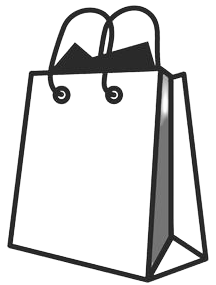
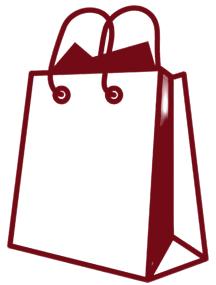
fixed colours and alignment of some elements

Changed region(s): [[0.0278, 0.0, 0.9722, 1.0]]

diff --git a/js/scene.js b/js/scene.js
@@ -441,23 +441,25 @@ function handleEvents() {
       cameraControls.mouseButtons.left = CameraControls.ACTION.ROTATE;
     }
 
-    // if (keyState.arrowUp) {
-    //   cameraControls.zoom(0.1, false);
-    // } else if (keyState.arrowDown) {
-    //   cameraControls.zoom(-0.1, false);
-    // } else if (keyState.arrowLeft) {
+    if (keyState.arrowUp) {
+      cameraControls.zoom(0.1, false);
+    } else if (keyState.arrowDown) {
+      cameraControls.zoom(-0.1, false);
+    }
+    // else if (keyState.arrowLeft) {
     //   cameraControls.truck(0.1, 0, false);
     // } else if (keyState.arrowRight) {
     //   cameraControls.truck(-0.1, 0, false);
-    // } else if (keyState.keyW) {
-    //   cameraControls.rotate(0, 1.5 * THREE.MathUtils.DEG2RAD, true);
-    // } else if (keyState.keyA) {
-    //   cameraControls.rotate(1.5 * THREE.MathUtils.DEG2RAD, 0, true);
-    // } else if (keyState.keyS) {
-    //   cameraControls.rotate(0, -1.5 * THREE.MathUtils.DEG2RAD, true);
-    // } else if (keyState.keyD) {
-    //   cameraControls.rotate(-1.5 * THREE.MathUtils.DEG2RAD, 0, true);
     // }
+    else if (keyState.keyW) {
+      cameraControls.rotate(0, 1.5 * THREE.MathUtils.DEG2RAD, true);
+    } else if (keyState.keyA) {
+      cameraControls.rotate(1.5 * THREE.MathUtils.DEG2RAD, 0, true);
+    } else if (keyState.keyS) {
+      cameraControls.rotate(0, -1.5 * THREE.MathUtils.DEG2RAD, true);
+    } else if (keyState.keyD) {
+      cameraControls.rotate(-1.5 * THREE.MathUtils.DEG2RAD, 0, true);
+    }
   });
 
   document.addEventListener("keyup", (event) => {
@@ -482,23 +484,25 @@ function handleEvents() {
       cameraControls.mouseButtons.left = CameraControls.ACTION.ROTATE;
     }
 
-    // if (keyState.arrowUp) {
-    //   cameraControls.zoom(0.1, false);
-    // } else if (keyState.arrowDown) {
-    //   cameraControls.zoom(-0.1, false);
-    // } else if (keyState.arrowLeft) {
+    if (keyState.arrowUp) {
+      cameraControls.zoom(0.1, false);
+    } else if (keyState.arrowDown) {
+      cameraControls.zoom(-0.1, false);
+    }
+    // else if (keyState.arrowLeft) {
     //   cameraControls.truck(0.1, 0, false);
     // } else if (keyState.arrowRight) {
     //   cameraControls.truck(-0.1, 0, false);
-    // } else if (keyState.keyW) {
-    //   cameraControls.rotate(0, 1.5 * THREE.MathUtils.DEG2RAD, true);
-    // } else if (keyState.keyA) {
-    //   cameraControls.rotate(1.5 * THREE.MathUtils.DEG2RAD, 0, true);
-    // } else if (keyState.keyS) {
-    //   cameraControls.rotate(0, -1.5 * THREE.MathUtils.DEG2RAD, true);
-    // } else if (keyState.keyD) {
-    //   cameraControls.rotate(-1.5 * THREE.MathUtils.DEG2RAD, 0, true);
     // }
+    else if (keyState.keyW) {
+      cameraControls.rotate(0, 1.5 * THREE.MathUtils.DEG2RAD, true);
+    } else if (keyState.keyA) {
+      cameraControls.rotate(1.5 * THREE.MathUtils.DEG2RAD, 0, true);
+    } else if (keyState.keyS) {
+      cameraControls.rotate(0, -1.5 * THREE.MathUtils.DEG2RAD, true);
+    } else if (keyState.keyD) {
+      cameraControls.rotate(-1.5 * THREE.MathUtils.DEG2RAD, 0, true);
+    }
   });
 
   let lastTapTime = performance.now();

diff --git a/css/style.css b/css/style.css
@@ -23,6 +23,9 @@ body {
   overflow: auto;
   font-family: "Lato", sans-serif;
   margin: 3px;
+  letter-spacing: 0.25px;
+  word-spacing: 2.5px;
+  line-height: 1.5rem;
 }
 
 button {
@@ -40,7 +43,7 @@ button {
 
   background-color: #ffe161 !important;
   border: 1px solid#ffe161 !important;
-  color: #614f00 !important;
+  color: #730b16 !important;
   box-shadow: 0px 4px 4px rgba(0, 0, 0, 0.25) !important;
 }
 
@@ -126,7 +129,7 @@ button {
 }
 
 .pricelabel {
-  color: rgb(255, 98, 0);
+  color: #c21526;
 }
 
 .aricon {
@@ -240,7 +243,7 @@ button {
   margin: 0 auto;
   padding: 0;
   /* border: 3px solid #ffe161; */
-  /* border-radius: 5px; */
+  border-radius: 5px;
 }
 
 #error {
@@ -385,10 +388,11 @@ button {
   align-items: center;
   justify-content: center;
   z-index: 30;
-  padding: 10px;
+  padding: 25px;
   gap: 20px;
-  background-color: #614f00;
+  background-color: #730b16;
   color: #ffe161;
+  font-weight: 500;
   border: 2px solid #ffe161;
   border-radius: 5px;
   display: none;
@@ -405,10 +409,10 @@ button {
   display: flex;
   flex-direction: column;
   align-items: center;
-  justify-content: flex-start;
-  border: 1px solid #ffe161;
+  justify-content: center;
+  border: 2px solid #ffe161;
   border-radius: 5px;
-  padding: 10px;
+  padding: 20px;
   width: 100%;
   height: 100%;
 }
@@ -420,7 +424,8 @@ button {
 
 .steptext {
   font-size: 18px;
-  padding: 10px;
+  padding: 15px;
+  height: 10vh;
 }
 
 #showhandscreen {
@@ -514,7 +519,7 @@ button {
 
   .selectarea {
     padding: 10px;
-    gap: 5px;
+    gap: 0px;
   }
 
   .jewelinfo {
@@ -553,13 +558,13 @@ button {
 
   .viewer-container {
     width: 99vw;
-    height: 97dvh;
+    height: 99dvh;
     max-width: 99vw;
     overflow: hidden;
   }
 
   #usermanual {
-    gap: 10px;
+    gap: 15px;
     padding: 5px;
   }
 
@@ -570,6 +575,7 @@ button {
 
   .step {
     flex-direction: row;
+    padding: 10px;
   }
 
   .stepimg {
@@ -577,8 +583,11 @@ button {
     height: auto;
   }
 
-  #showhandscreen {
-    padding: 15px 0;
+  .steptext {
+    width: 60%;
+    height: auto;
+    padding: 0px;
+    margin-left: 15px;
   }
 
   #showhandscreen h2 {
@@ -593,14 +602,19 @@ button {
 
   .switchbtn {
     margin: 20px;
-    margin-left: auto;
     border-radius: 50%;
     width: fit-content;
+    width: 60px;
+    height: 60px;
+    padding: 12px;
+    position: absolute;
+    bottom: 30px;
+    right: 0;
   }
 
   .switchimg {
-    width: 30px;
-    height: 35px;
+    width: 100%;
+    height: 100%;
   }
 
   .desktop-viewar {

diff --git a/index.html b/index.html
@@ -25,7 +25,7 @@
       </div>
       <div class="j4container" id="j4container">
         <!-- <h2 class="choosetext">Choose a jewellery to try it on</h2> -->
-        <h3 class="type-label">Bangles ( 2 items )</h3>
+        <h3 class="type-label">Bangles (2 items)</h3>
         <div class="jrow">
           <div class="jewel-container">
             <img src="assets/flowerbangle.jpeg" class="jewelimg" />
@@ -47,7 +47,7 @@
                   <img src="assets/aricon.png" class="aricon" />
                 </button>
                 <button class="primarybtn addcartbtn" type="button">
-                  <img src="assets/addbag.png" class="addbag" />
+                  <img src="assets/addbag2.png" class="addbag" />
                 </button>
               </div>
             </div>
@@ -72,7 +72,7 @@
                   <img src="assets/aricon.png" class="aricon" />
                 </button>
                 <button class="primarybtn addcartbtn" type="button">
-                  <img src="assets/addbag.png" class="addbag" />
+                  <img src="assets/addbag2.png" class="addbag" />
                 </button>
               </div>
             </div>
@@ -90,7 +90,7 @@
             </div>
           </div> -->
         </div>
-        <h3 class="type-label">Rings ( 2 items )</h3>
+        <h3 class="type-label">Rings (2 items)</h3>
         <div class="jrow">
           <!-- <div class="jewel-container">
             <img src="assets/flowerring.jpeg" class="jewelimg" />
@@ -124,7 +124,7 @@
                   <img src="assets/aricon.png" class="aricon" />
                 </button>
                 <button class="primarybtn addcartbtn" type="button">
-                  <img src="assets/addbag.png" class="addbag" />
+                  <img src="assets/addbag2.png" class="addbag" />
                 </button>
               </div>
             </div>
@@ -149,7 +149,7 @@
                   <img src="assets/aricon.png" class="aricon" />
                 </button>
                 <button class="primarybtn addcartbtn" type="button">
-                  <img src="assets/addbag.png" class="addbag" />
+                  <img src="assets/addbag2.png" class="addbag" />
                 </button>
               </div>
             </div>

diff --git a/js/mediapipe.js b/js/mediapipe.js
@@ -195,7 +195,7 @@ function onResults(results) {
       // Setting baseTheta for different jewel types
       // TODO: load this from sceneParams file
       baseTheta = THREE.MathUtils.degToRad(rawBaseTheta);
-      console.log("baseTheta", rawBaseTheta);
+      // console.log("baseTheta", rawBaseTheta);
       if (jewelType === "ring" && handLabel === "Left") {
         baseTheta = THREE.MathUtils.degToRad(rawBaseTheta + 180);
       }
@@ -364,7 +364,6 @@ const handleMediaCamera = () => {
 async function toggleVideo() {
   if (!isVideo) {
     updateNote.innerText = "Starting video...";
-
     outputCanvasElement.style.display = "block";
     if (!isIOS) camera.start();
     else {
@@ -391,7 +390,7 @@ async function toggleVideo() {
       arBottomContainer.style.display = "none";
 
       if (isMobile && !isIOS) {
-        setDims(viewSpaceContainer, smwidth, height);
+        setDims(viewSpaceContainer, width, height);
         // setDims(view, width, height);
         outputCanvasElement.style.setProperty("left", `-${offset}px`);
       }
